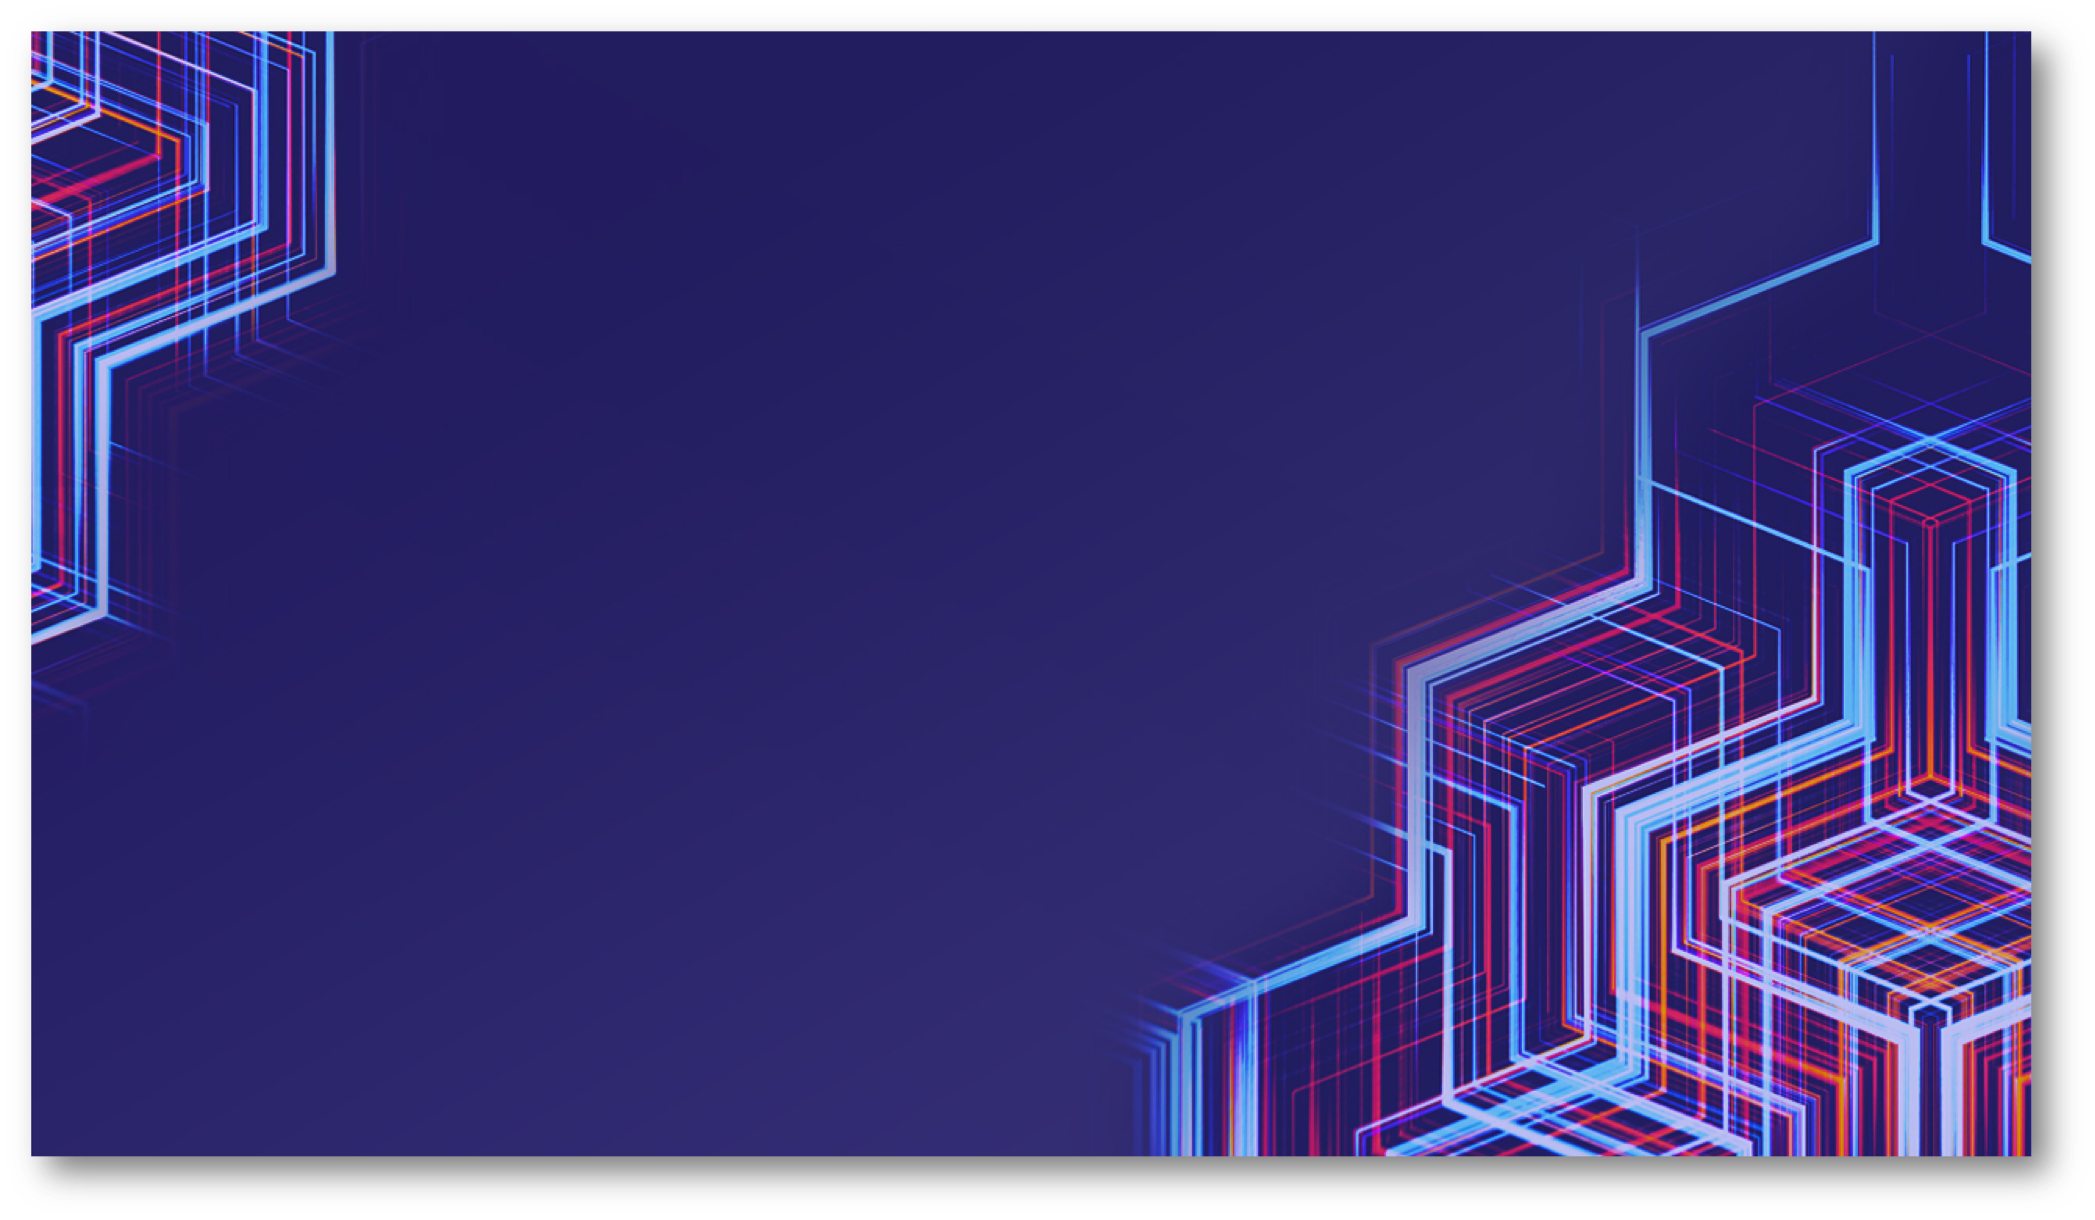
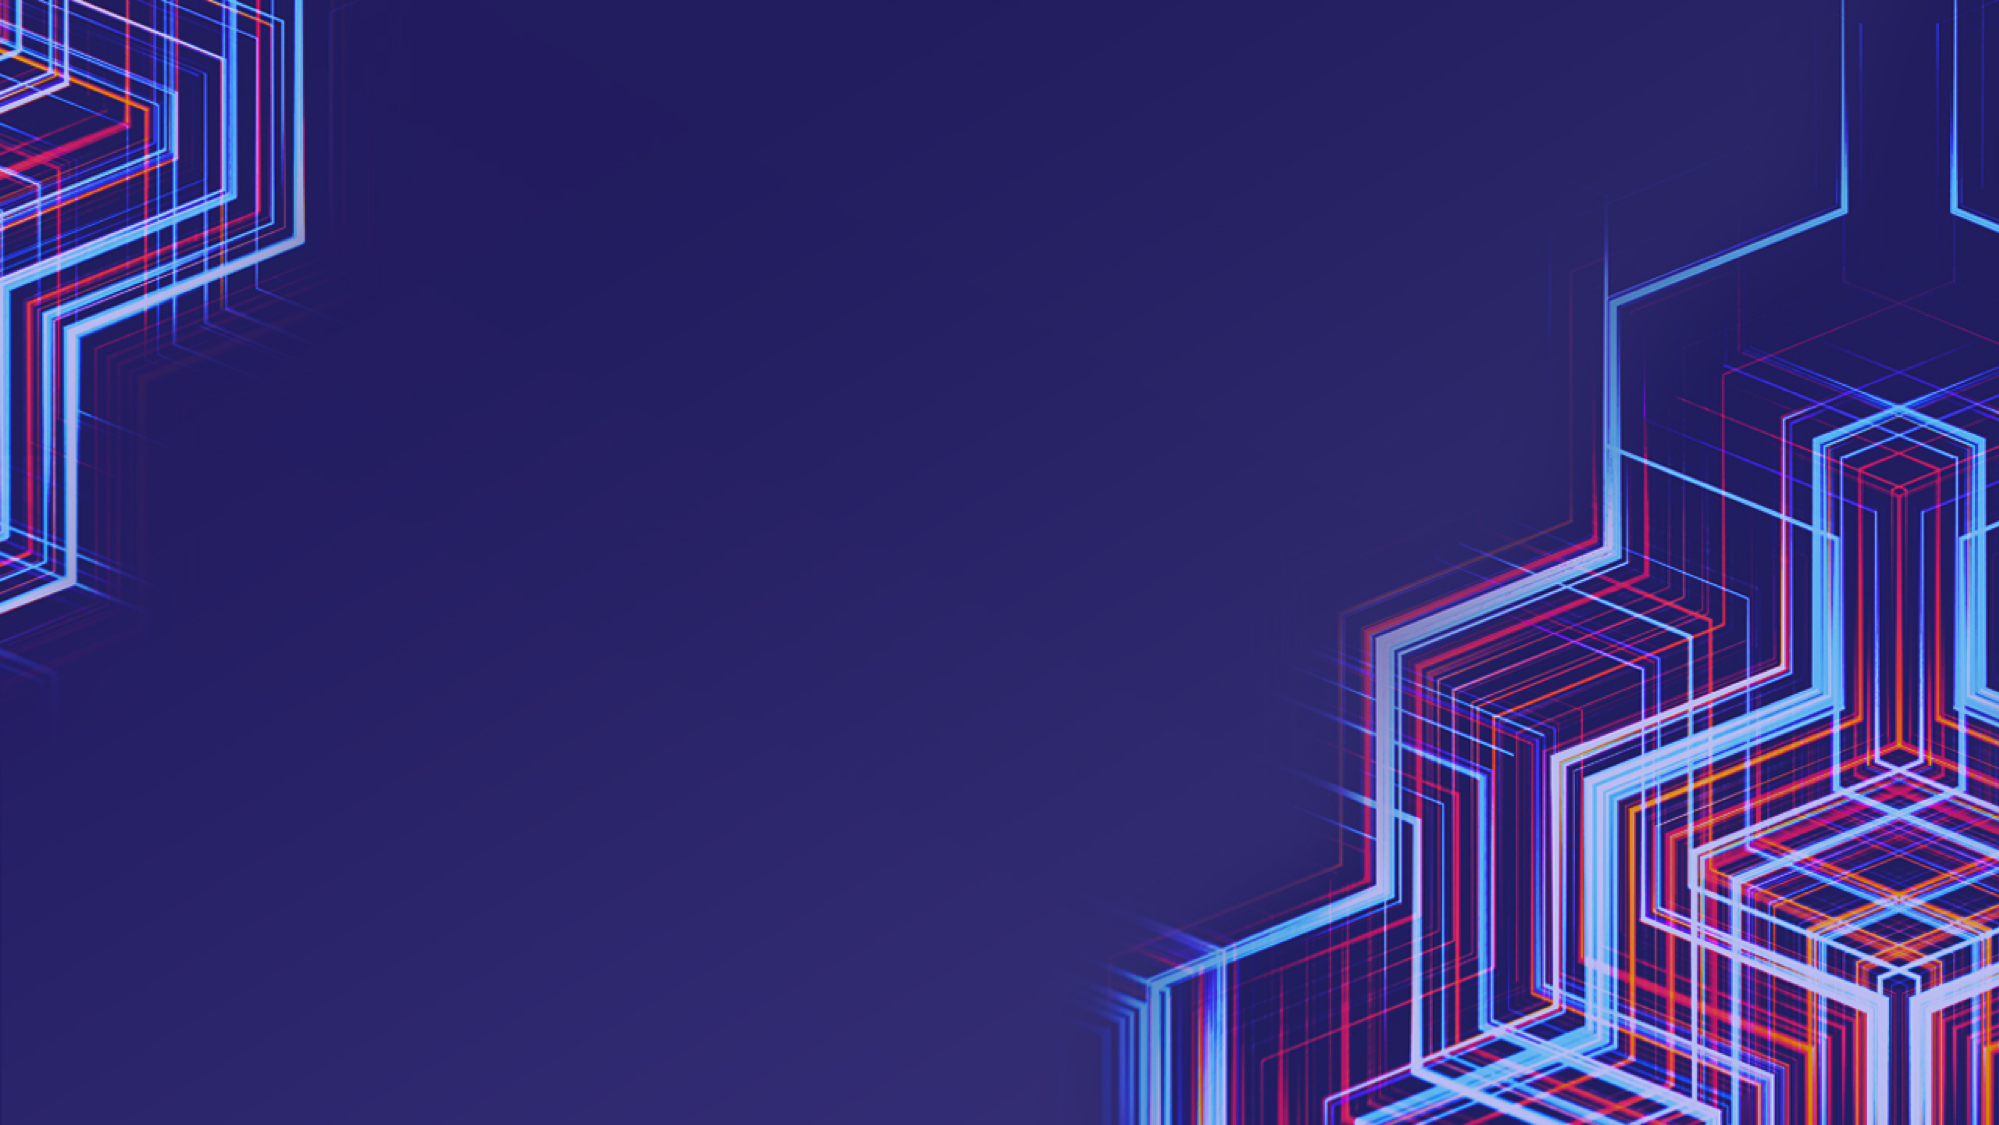
remove duplicat background

diff --git a/psdw-2019.html b/psdw-2019.html
@@ -26,9 +26,7 @@
 	<body>
 		<div class="reveal">
 			<div class="slides">
-				<div class="slides">
-					<section data-markdown="PSDW.md"></section>
-				</div>
+				<section data-markdown="PSDW.md"></section>
 			</div>
 		</div>
 

diff --git a/PSDW.md b/PSDW.md
@@ -45,7 +45,7 @@
 
 ---
 
-<!-- .slide: data-background="./img/2019/psdw/bg-5.png" -->
+<!-- .slide: data-background="./img/2019/psdw/bg-1.png" -->
 
 ## Headline
 
@@ -54,5 +54,3 @@
 <aside class="notes">
   talking points.
 </aside>
-
----
